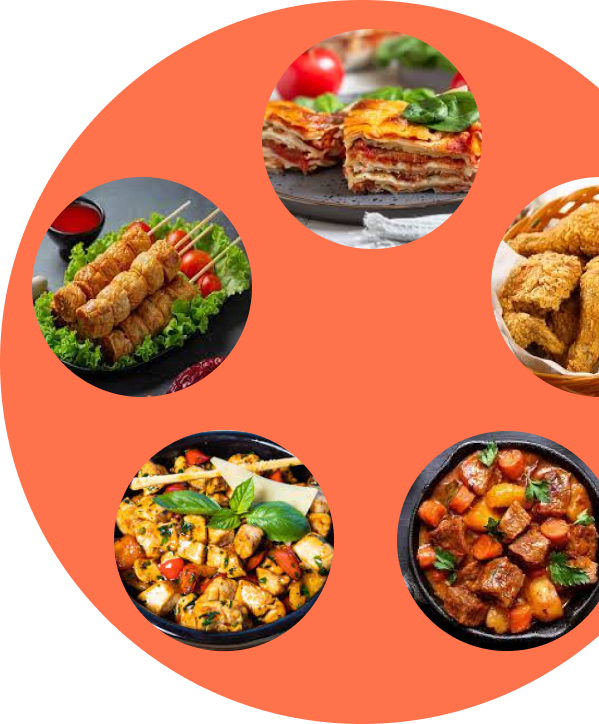
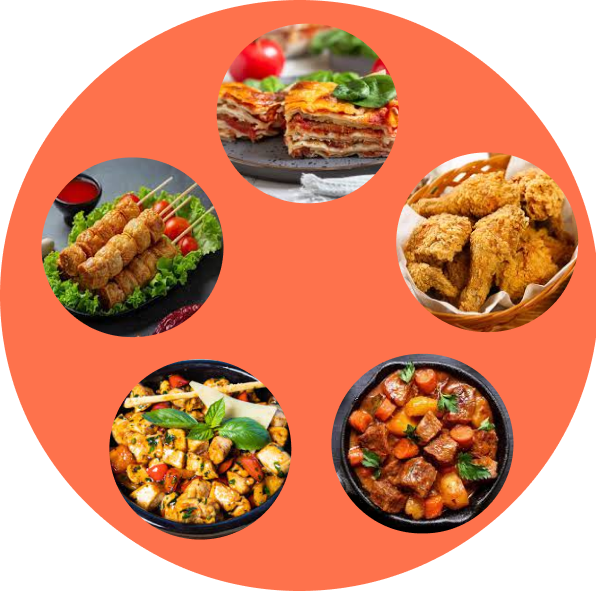
big circle done

diff --git a/style.css b/style.css
@@ -120,7 +120,7 @@ main{
     border-radius: 50%;
 }
 .circles img{
-    width:90%;
+    width:100%;
     height: 100%;
 }
 
